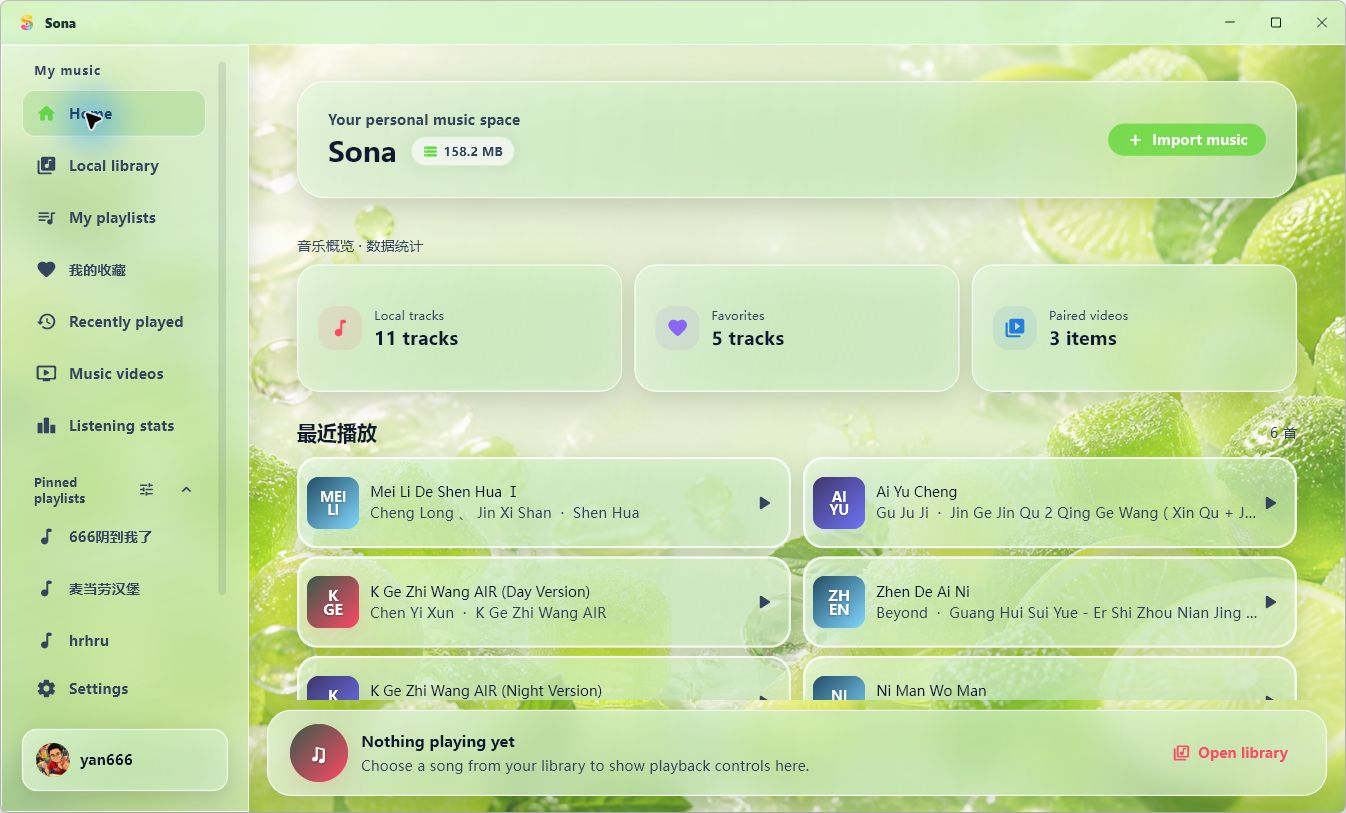
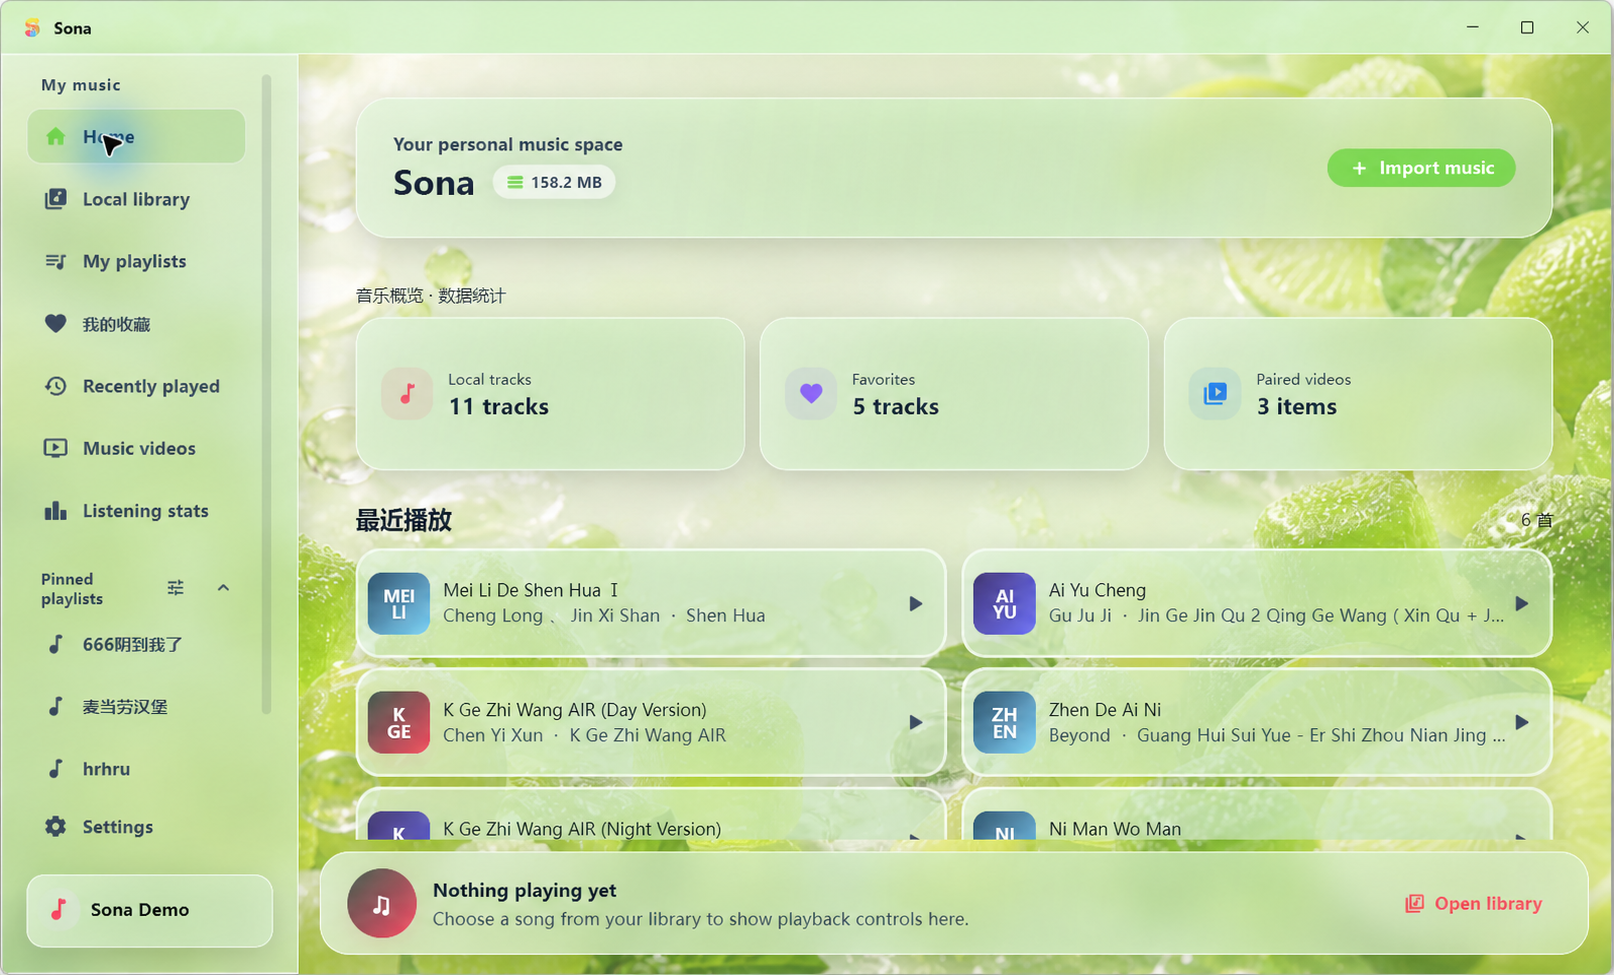
docs: point releases and website to canonical source

diff --git a/docs/index.html b/docs/index.html
@@ -39,7 +39,7 @@
     </nav>
     <div class="header-actions">
       <button class="language-toggle" type="button" data-language-toggle aria-label="切换至中文" title="切换至中文">中文</button>
-      <a class="text-link" href="https://github.com/Owl-Lee/Sona-Player" target="_blank" rel="noreferrer">GitHub</a>
+      <a class="text-link" href="https://github.com/Owl-Lee/Sona" target="_blank" rel="noreferrer">GitHub</a>
       <a class="button button-small button-primary" href="#download">Try it now</a>
     </div>
   </header>
@@ -139,7 +139,7 @@
       </div>
       <figure class="app-frame showcase-frame reveal">
         <div class="window-bar" aria-hidden="true"><span class="traffic red"></span><span class="traffic amber"></span><span class="traffic green"></span><span class="window-title" data-shot-title>Sona · Home</span></div>
-        <img data-showcase-image src="site/assets/screenshots/home-en.png" alt="Real screenshot of the Sona home screen" width="1098" height="769">
+        <img data-showcase-image src="site/assets/screenshots/home-en.png" alt="Real screenshot of the Sona home screen" width="1614" height="975">
       </figure>
       <div class="experience-notes reveal">
         <span>Adaptive liquid glass</span><span>High-contrast text</span><span>Complete mouse and keyboard support</span><span>Simplified / Traditional / English</span>
@@ -151,7 +151,7 @@
         <p class="section-kicker">Engineering</p>
         <h2>Design you can see,<br>engineering you can trust.</h2>
         <p>Sona uses Flutter for a two-platform experience, SQLite for local data, SHA-256 for deduplication, and cancellation, debouncing and graceful fallback for network, cloud and rapid queue operations.</p>
-        <a class="inline-link" href="https://github.com/Owl-Lee/Sona-Player" target="_blank" rel="noreferrer">View public source <span>↗</span></a>
+        <a class="inline-link" href="https://github.com/Owl-Lee/Sona" target="_blank" rel="noreferrer">View public source <span>↗</span></a>
       </div>
       <div class="pipeline reveal" data-delay="1" aria-label="Smart track identification pipeline">
         <p class="pipeline-title">Track metadata pipeline</p>
@@ -208,7 +208,7 @@
   <footer class="site-footer">
     <a class="brand" href="#top"><img src="site/assets/sona-mark.png" alt="" width="30" height="30"><span>Sona</span></a>
     <p>A space that truly belongs to you and your music.</p>
-    <div><a href="https://github.com/Owl-Lee/Sona-Player" target="_blank" rel="noreferrer">GitHub</a><a href="#download">Download</a><span>© <span data-year></span> Sona</span></div>
+    <div><a href="https://github.com/Owl-Lee/Sona" target="_blank" rel="noreferrer">GitHub</a><a href="#download">Download</a><span>© <span data-year></span> Sona</span></div>
   </footer>
 
   <script src="site/app.js?v=0.5.0.4" defer></script>

diff --git a/README.md b/README.md
@@ -2,7 +2,9 @@
 
 > A local-first, offline-ready music player for Windows and Android.
 
-**English** · [简体中文](#简体中文) · [Website](https://sona.yanbaoli.me/?lang=en) · [Download](https://github.com/Owl-Lee/Sona-Player/releases/latest) · [0.5.0 release notes](docs/releases/0.5.0.md) · [Documentation](docs/README.md) · [Report an issue](https://github.com/Owl-Lee/Sona-Player/issues)
+**English** · [简体中文](#简体中文) · [Website](https://sona.yanbaoli.me/?lang=en) · [Source & development](https://github.com/Owl-Lee/Sona) · [Download](https://github.com/Owl-Lee/Sona-Player/releases/latest) · [0.5.0 release notes](docs/releases/0.5.0.md) · [Documentation](docs/README.md) · [Report an issue](https://github.com/Owl-Lee/Sona/issues)
+
+> This repository remains the public website and signed release channel. Active source development, issues, contribution guidance, and security reporting live in the canonical [Owl-Lee/Sona](https://github.com/Owl-Lee/Sona) repository.
 
 ![Sona immersive vinyl player in English](docs/site/assets/screenshots/player-en.png)
 
@@ -90,7 +92,7 @@ Sona is not a music distribution service and does not provide copyrighted tracks
 
 > 一款面向 Windows 与 Android 的本地优先、离线可用音乐播放器。
 
-[中文网站](https://sona.yanbaoli.me/?lang=zh) · [下载最新版本](https://github.com/Owl-Lee/Sona-Player/releases/latest) · [0.5.0 发布说明](docs/releases/0.5.0.md#简体中文) · [项目文档](docs/README.md) · [提交问题](https://github.com/Owl-Lee/Sona-Player/issues) · [返回英文](#sona)
+[中文网站](https://sona.yanbaoli.me/?lang=zh) · [源码与开发](https://github.com/Owl-Lee/Sona) · [下载最新版本](https://github.com/Owl-Lee/Sona-Player/releases/latest) · [0.5.0 发布说明](docs/releases/0.5.0.md#简体中文) · [项目文档](docs/README.md) · [提交问题](https://github.com/Owl-Lee/Sona/issues) · [返回英文](#sona)
 
 ![Sona 简体中文沉浸式黑胶播放页](docs/site/assets/screenshots/player.png)
 
